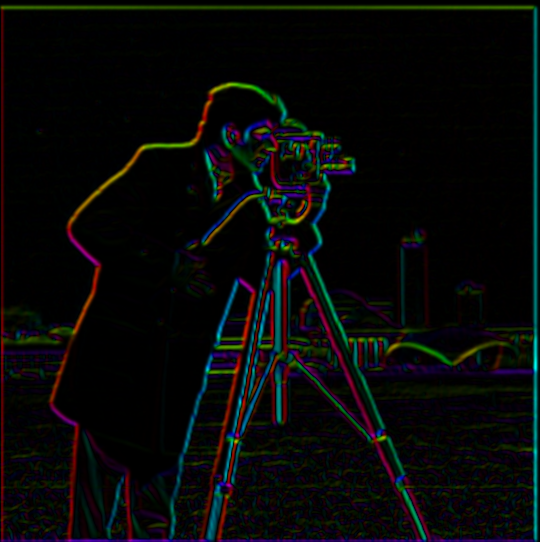
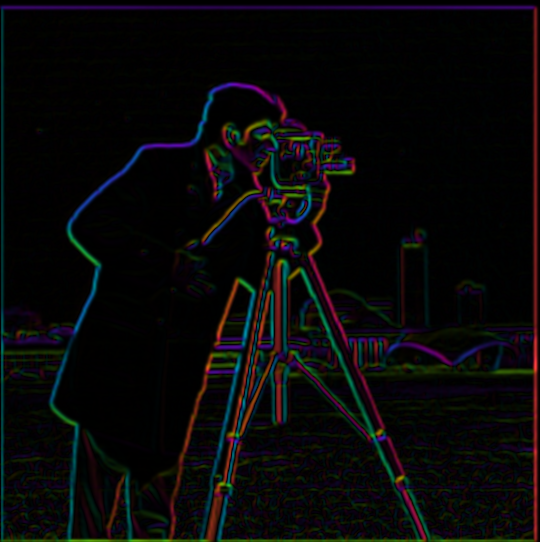
Project 2: text and final images

diff --git a/cs180/project2/index.html b/cs180/project2/index.html
@@ -13,32 +13,18 @@
 
 <h2 class="big">Part 1: Fun with Filters</h2>
 <h2>Part 1.1: Convolutions from scratch</h2>
-<p></p>
-<h3>Padding</h3>
+<p>
+  I started by looking at the normal applying of padding and kernels. I noticed that padding uses a single number to pad on both sides, and I made the assumption that you pad both sides equally. Although I did some research and see this is not always the case, as in some cases, for example, causal convolutional layers, the padding could be different, and below is my padding function.
+</p>
 <pre><code>def pad_same(image, kernel_h, kernel_w):
     image_h, image_w = image.shape
     top, left = kernel_h // 2, kernel_w // 2
     padded = np.zeros((image_h + kernel_h - 1, image_w + kernel_w - 1))
     padded[top:top + image_h, left:left + image_w] = image
     return padded</code></pre>
-<p></p>
-<h3>Four loops</h3>
-<pre><code>def conv2d_four(image, kernel):
-    image_h, image_w = image.shape
-    kernel_h, kernel_w = kernel.shape
-    padded = pad_same(image, kernel_h, kernel_w)
-    flipped = kernel[::-1, ::-1]
-    out = np.zeros((image_h, image_w))
-    for i in range(image_h):
-        for j in range(image_w):
-            val = 0.0
-            for h in range(kernel_h):
-                for w in range(kernel_w):
-                    val += padded[i + h, j + w] * flipped[h, w]
-            out[i, j] = val
-    return out</code></pre>
-<p></p>
-<h3>Two loops</h3>
+<p>
+  Then I also had a conv2d for both four loops and two loops, and here I only showed the two loops function, which is what I used later on too. It basically takes a kernel and puts it across the image.
+</p>
 <pre><code>def conv2d_two(image, kernel):
     image_h, image_w = image.shape
     kernel_h, kernel_w = kernel.shape
@@ -49,38 +35,78 @@
         for j in range(image_w):
             out[i, j] = np.sum(padded[i:i + kernel_h, j:j + kernel_w] * flipped)
     return out</code></pre>
-<p></p>
 <h3>Comparison with scipy</h3>
-<p></p>
-<h3>Box filter and finite differences</h3>
-<p></p>
 <div class="quad">
   <figure><img src="assets/p11_input.jpg" alt="input"><figcaption>input</figcaption></figure>
-  <figure><img src="assets/p11_box.jpg" alt="9x9 box filter"><figcaption>9x9 box filter</figcaption></figure>
-  <figure><img src="assets/p11_dx.jpg" alt="Dx"><figcaption>Dx</figcaption></figure>
-  <figure><img src="assets/p11_dy.jpg" alt="Dy"><figcaption>Dy</figcaption></figure>
+  <figure><img src="assets/p11_box.jpg" alt="ours: 9x9 box filter"><figcaption>ours: 9x9 box filter</figcaption></figure>
+  <figure><img src="assets/p11_dx.jpg" alt="ours: Dx"><figcaption>ours: Dx</figcaption></figure>
+  <figure><img src="assets/p11_dy.jpg" alt="ours: Dy"><figcaption>ours: Dy</figcaption></figure>
 </div>
+<div class="quad">
+  <figure><img src="assets/p11_input.jpg" alt="input"><figcaption>input</figcaption></figure>
+  <figure><img src="assets/p11_box_scipy.jpg" alt="scipy: 9x9 box filter"><figcaption>scipy: 9x9 box filter</figcaption></figure>
+  <figure><img src="assets/p11_dx_scipy.jpg" alt="scipy: Dx"><figcaption>scipy: Dx</figcaption></figure>
+  <figure><img src="assets/p11_dy_scipy.jpg" alt="scipy: Dy"><figcaption>scipy: Dy</figcaption></figure>
+</div>
+<p>
+  Both pad the boundary with zeros, and the results match <code>scipy.signal.convolve2d</code> to within 1e-15. On a 100x100 image with the 9x9 box filter, four loops took about 130 ms, two loops about 20 ms, and scipy under 1 ms, because each step moves more of the looping from Python into compiled code.
+</p>
 <h2>Part 1.2: Finite difference operator</h2>
-<p></p>
+<p>
+  The derivative in x uses the kernel D<sub>x</sub> = [1, -1] and the derivative in y uses D<sub>y</sub> = [1, -1]<sup>T</sup>. The gradient magnitude is sqrt(dx<sup>2</sup> + dy<sup>2</sup>).
+</p>
+<pre><code>Dx = np.array([[1.0, -1.0]])
+Dy = np.array([[1.0], [-1.0]])
+
+
+def finite_difference(im, threshold, filter_x=Dx, filter_y=Dy):
+    dx = convolve2d(im, filter_x, mode=&#x27;same&#x27;, boundary=&#x27;symm&#x27;)
+    dy = convolve2d(im, filter_y, mode=&#x27;same&#x27;, boundary=&#x27;symm&#x27;)
+    magnitude = np.sqrt(dx**2 + dy**2)
+    edges = magnitude &gt; threshold
+    return dx, dy, magnitude, edges</code></pre>
 <div class="pair">
   <figure><img src="assets/p12_dx.jpg" alt="partial derivative in x"><figcaption>partial derivative in x</figcaption></figure>
   <figure><img src="assets/p12_dy.jpg" alt="partial derivative in y"><figcaption>partial derivative in y</figcaption></figure>
 </div>
 <div class="pair">
   <figure><img src="assets/p12_magnitude.jpg" alt="gradient magnitude"><figcaption>gradient magnitude</figcaption></figure>
-  <figure><img src="assets/p12_edges.png" alt="binarized edges"><figcaption>binarized edges</figcaption></figure>
+  <figure><img src="assets/p12_edges.png" alt="binarized edges, threshold 0.25"><figcaption>binarized edges, threshold 0.25</figcaption></figure>
 </div>
-<p></p>
+<p>
+  I binarized the gradient magnitude at a threshold of 0.25. A lower threshold keeps more of the background buildings but lets in the grass noise, so I gave up a few faint edges for a cleaner image.
+</p>
 <h2>Part 1.3: Derivative of Gaussian (DoG) filter</h2>
-<p></p>
+<p>
+  The 2D Gaussian is the outer product of <code>cv2.getGaussianKernel</code> with itself (9x9, sigma 1.5). I blur the image with it and then repeat Part 1.2.
+</p>
+<pre><code>def gaussian_2d(ksize, sigma):
+    g = cv.getGaussianKernel(ksize, sigma)
+    return g @ g.T
+
+
+def blur_then_difference(im, gaussian, threshold):
+    blurred = convolve2d(im, gaussian, mode=&#x27;same&#x27;, boundary=&#x27;symm&#x27;)
+    return finite_difference(blurred, threshold)</code></pre>
 <div class="trio">
   <figure><img src="assets/p13_blurred.jpg" alt="blurred input"><figcaption>blurred input</figcaption></figure>
   <figure><img src="assets/p13_magnitude.jpg" alt="gradient magnitude"><figcaption>gradient magnitude</figcaption></figure>
-  <figure><img src="assets/p13_edges.png" alt="binarized edges"><figcaption>binarized edges</figcaption></figure>
+  <figure><img src="assets/p13_edges.png" alt="binarized edges, threshold 0.075"><figcaption>binarized edges, threshold 0.075</figcaption></figure>
 </div>
-<p></p>
+<p>
+  Compared to the plain finite difference, the grass noise is gone and the edges are thicker and continuous. Blurring makes the gradients smaller, so the threshold drops to 0.075.
+</p>
 <h3>DoG filters</h3>
-<p></p>
+<p>
+  Convolving the Gaussian with D<sub>x</sub> and D<sub>y</sub> gives two DoG filters, so the blur and the derivative become one convolution.
+</p>
+<pre><code>def dog_filters(gaussian):
+    return convolve2d(gaussian, Dx), convolve2d(gaussian, Dy)
+
+
+def dog_difference(im, gaussian, threshold):
+    dog_x, dog_y = dog_filters(gaussian)
+    return finite_difference(im, threshold, dog_x, dog_y)</code></pre>
 <div class="pair small">
   <figure><img src="assets/p13_dog_x.png" alt="DoG x filter"><figcaption>DoG x filter</figcaption></figure>
   <figure><img src="assets/p13_dog_y.png" alt="DoG y filter"><figcaption>DoG y filter</figcaption></figure>
@@ -89,124 +115,210 @@
   <figure><img src="assets/p13_dog_magnitude.jpg" alt="gradient magnitude, single convolution"><figcaption>gradient magnitude, single convolution</figcaption></figure>
   <figure><img src="assets/p13_dog_edges.png" alt="binarized edges, single convolution"><figcaption>binarized edges, single convolution</figcaption></figure>
 </div>
-<p></p>
+<p>
+  The result is the same as blurring first: the gradient magnitudes differ by at most 7e-16 and the edge images are identical.
+</p>
 <h3>Bells &amp; Whistles: gradient orientation</h3>
-<p></p>
-<figure class="single"><img src="assets/p13_orientation.png" alt="gradient orientation as hue, magnitude as brightness"><figcaption>gradient orientation as hue, magnitude as brightness</figcaption></figure>
+<p>
+  The gradient divided by its magnitude is already the cosine and sine of the orientation, so no angle function is needed. Each color channel is a cosine of the orientation shifted by 120 degrees, expanded with cos(a - b) = cos a cos b + sin a sin b, and the brightness is the gradient magnitude.
+</p>
+<pre><code>def orientation(dx, dy, magnitude):
+    cos, sin = dx / (magnitude + 1e-8), dy / (magnitude + 1e-8)
+    half, root = 0.5, np.sqrt(3) / 2
+    rgb = np.dstack([cos, -half * cos + root * sin, -half * cos - root * sin])
+    return (0.5 + 0.5 * rgb) * normalize(magnitude)[:, :, None]</code></pre>
+<figure class="single"><img src="assets/p13_orientation.png" alt="gradient orientation as color, magnitude as brightness"><figcaption>gradient orientation as color, magnitude as brightness</figcaption></figure>
 <h2 class="big">Part 2: Fun with Frequencies</h2>
 <h2>Part 2.1: Image sharpening</h2>
-<p></p>
-<div class="pair">
+<p>
+  A Gaussian blur keeps only the low frequencies, so the image minus its blur is the high frequencies. Adding alpha times the high frequencies back sharpens the image, and this folds into a single filter: (1 + alpha) * impulse - alpha * Gaussian.
+</p>
+<p>
+  I also find out that sharpen and blur are not reverses of each other. So sharpen is not gonna cancel blurring. It's gonna try to "use what is left" with its best ability.
+</p>
+<pre><code>def unsharp_filter(sigma, alpha):
+    ksize = kernel_size(sigma)
+    impulse = np.zeros((ksize, ksize))
+    impulse[ksize // 2, ksize // 2] = 1
+    return (1 + alpha) * impulse - alpha * gaussian_2d(ksize, sigma)
+
+
+def sharpen(im, sigma, alpha):
+    return np.clip(filter_image(im, unsharp_filter(sigma, alpha)), 0, 1)</code></pre>
+<div class="quad">
   <figure><img src="assets/p21_taj.jpg" alt="taj, original"><figcaption>taj, original</figcaption></figure>
-  <figure><img src="assets/p21_taj_sharp.jpg" alt="taj, sharpened"><figcaption>taj, sharpened</figcaption></figure>
+  <figure><img src="assets/p21_taj_blur.jpg" alt="blurred"><figcaption>blurred</figcaption></figure>
+  <figure><img src="assets/p21_taj_high.jpg" alt="high frequencies"><figcaption>high frequencies</figcaption></figure>
+  <figure><img src="assets/p21_taj_sharp.jpg" alt="sharpened"><figcaption>sharpened</figcaption></figure>
 </div>
-<div class="pair">
+<p>
+  Taj sharpens well, the edges of the building come out clearly.
+</p>
+<p>
+  I'm also interested to discover what happens if we try to sharpen an image that is already kind of blurry, for instance, this motion blur image.
+</p>
+<div class="quad">
   <figure><img src="assets/p21_walking.jpg" alt="walking, original"><figcaption>walking, original</figcaption></figure>
-  <figure><img src="assets/p21_walking_sharp.jpg" alt="walking, sharpened"><figcaption>walking, sharpened</figcaption></figure>
+  <figure><img src="assets/p21_walking_blur.jpg" alt="blurred"><figcaption>blurred</figcaption></figure>
+  <figure><img src="assets/p21_walking_high.jpg" alt="high frequencies"><figcaption>high frequencies</figcaption></figure>
+  <figure><img src="assets/p21_walking_sharp.jpg" alt="sharpened"><figcaption>sharpened</figcaption></figure>
 </div>
-<p></p>
+<p>
+  The result is sharpened, but doesn't totally sharpen. The shoes and the outline of the jacket get crisper, but the smear behind the walker is still there, because the unsharp mask only boosts the high frequencies that are left and cannot undo motion blur.
+</p>
+<h3>Varying the sharpening amount</h3>
+<div class="quad">
+  <figure><img src="assets/p21_taj_alpha_0.5.jpg" alt="alpha 0.5"><figcaption>alpha 0.5</figcaption></figure>
+  <figure><img src="assets/p21_taj_alpha_1.jpg" alt="alpha 1"><figcaption>alpha 1</figcaption></figure>
+  <figure><img src="assets/p21_taj_alpha_2.jpg" alt="alpha 2"><figcaption>alpha 2</figcaption></figure>
+  <figure><img src="assets/p21_taj_alpha_4.jpg" alt="alpha 4"><figcaption>alpha 4</figcaption></figure>
+</div>
+<p>
+  A larger alpha gives stronger edges. Past about 2, halos and noise start to show.
+</p>
 <h3>Blur, then sharpen</h3>
-<p></p>
+<p>
+  I also decided to sharpen Evanbot.
+</p>
 <div class="trio">
   <figure><img src="assets/p21_eval_original.jpg" alt="original"><figcaption>original</figcaption></figure>
   <figure><img src="assets/p21_eval_blurred.jpg" alt="blurred"><figcaption>blurred</figcaption></figure>
   <figure><img src="assets/p21_eval_resharpened.jpg" alt="re-sharpened"><figcaption>re-sharpened</figcaption></figure>
 </div>
-<p></p>
 <h2>Part 2.2: Hybrid images</h2>
-<p></p>
+<p>
+  I align the two images on two points, low-pass one with a Gaussian, high-pass the other by subtracting its Gaussian blur, and add them.
+</p>
+<pre><code>def align(im, target, pts, target_pts):
+    (x1, y1), (x2, y2) = pts
+    (u1, v1), (u2, v2) = target_pts
+    scale = np.hypot(u2 - u1, v2 - v1) / np.hypot(x2 - x1, y2 - y1)
+    angle = np.degrees(np.arctan2(y2 - y1, x2 - x1) - np.arctan2(v2 - v1, u2 - u1))
+    matrix = cv.getRotationMatrix2D((x1, y1), angle, scale)
+    matrix[:, 2] += (u1 - x1, v1 - y1)
+    h, w = target.shape[:2]
+    return cv.warpAffine(im, matrix, (w, h), borderMode=cv.BORDER_REFLECT)
+
+
+def hybrid(im_low, im_high, sigma_low, sigma_high):
+    return np.clip(low_pass(im_low, sigma_low) + high_pass(im_high, sigma_high), 0, 1)</code></pre>
 <h3>Derek and Nutmeg</h3>
 <div class="trio">
   <figure><img src="assets/p22_derek_nutmeg_low.jpg" alt="Derek (low frequency)"><figcaption>Derek (low frequency)</figcaption></figure>
   <figure><img src="assets/p22_derek_nutmeg_high.jpg" alt="Nutmeg (high frequency)"><figcaption>Nutmeg (high frequency)</figcaption></figure>
   <figure><img src="assets/p22_derek_nutmeg_hybrid.jpg" alt="hybrid"><figcaption>hybrid</figcaption></figure>
 </div>
-<p></p>
 <h3>Messi and Ronaldo</h3>
 <div class="trio">
   <figure><img src="assets/p22_messi_ronaldo_low.jpg" alt="Messi (low frequency)"><figcaption>Messi (low frequency)</figcaption></figure>
   <figure><img src="assets/p22_messi_ronaldo_high.jpg" alt="Ronaldo (high frequency)"><figcaption>Ronaldo (high frequency)</figcaption></figure>
   <figure><img src="assets/p22_messi_ronaldo_hybrid.jpg" alt="hybrid"><figcaption>hybrid</figcaption></figure>
 </div>
-<p></p>
-<h3>Lily pond: photo and painting</h3>
-<div class="trio">
-  <figure><img src="assets/p22_pond_low.jpg" alt="photo (low frequency)"><figcaption>photo (low frequency)</figcaption></figure>
-  <figure><img src="assets/p22_pond_high.jpg" alt="painting (high frequency)"><figcaption>painting (high frequency)</figcaption></figure>
-  <figure><img src="assets/p22_pond_hybrid.jpg" alt="hybrid"><figcaption>hybrid</figcaption></figure>
-</div>
-<p></p>
 <h3>Anthropic and ChatGPT logos</h3>
 <div class="trio">
   <figure><img src="assets/p22_logos_low.jpg" alt="Anthropic logo (low frequency)"><figcaption>Anthropic logo (low frequency)</figcaption></figure>
   <figure><img src="assets/p22_logos_high.jpg" alt="ChatGPT logo (high frequency)"><figcaption>ChatGPT logo (high frequency)</figcaption></figure>
   <figure><img src="assets/p22_logos_hybrid.jpg" alt="hybrid"><figcaption>hybrid</figcaption></figure>
 </div>
-<p></p>
-<h3>Frequency analysis: Messi and Ronaldo</h3>
-<p></p>
+<h3>Full process: lily pond</h3>
+<p>
+  The photo is the low-frequency image and the painting is the high-frequency one. I aligned them on the two ends of the bridge.
+</p>
 <div class="pair">
-  <figure><img src="assets/p22_low_filtered.jpg" alt="low-pass filtered"><figcaption>low-pass filtered</figcaption></figure>
-  <figure><img src="assets/p22_high_filtered.jpg" alt="high-pass filtered"><figcaption>high-pass filtered</figcaption></figure>
+  <figure><img src="assets/p22_original_low.jpg" alt="original photo"><figcaption>original photo</figcaption></figure>
+  <figure><img src="assets/p22_original_high.jpg" alt="original painting"><figcaption>original painting</figcaption></figure>
 </div>
+<div class="pair">
+  <figure><img src="assets/p22_pond_low.jpg" alt="aligned photo"><figcaption>aligned photo</figcaption></figure>
+  <figure><img src="assets/p22_pond_high.jpg" alt="aligned painting"><figcaption>aligned painting</figcaption></figure>
+</div>
+<div class="pair">
+  <figure><img src="assets/p22_low_filtered.jpg" alt="low-pass filtered, sigma 8"><figcaption>low-pass filtered, sigma 8</figcaption></figure>
+  <figure><img src="assets/p22_high_filtered.jpg" alt="high-pass filtered, sigma 5"><figcaption>high-pass filtered, sigma 5</figcaption></figure>
+</div>
+<p>
+  I used sigma 8 for the low-pass, enough to remove the fine detail of the photo, and sigma 5 for the high-pass, so the painting keeps its brush strokes but not its large shapes.
+</p>
 <div class="five">
-  <figure><img src="assets/p22_fft_low_input.jpg" alt="FFT: low input"><figcaption>FFT: low input</figcaption></figure>
-  <figure><img src="assets/p22_fft_high_input.jpg" alt="FFT: high input"><figcaption>FFT: high input</figcaption></figure>
+  <figure><img src="assets/p22_fft_low_input.jpg" alt="FFT: photo"><figcaption>FFT: photo</figcaption></figure>
+  <figure><img src="assets/p22_fft_high_input.jpg" alt="FFT: painting"><figcaption>FFT: painting</figcaption></figure>
   <figure><img src="assets/p22_fft_low_filtered.jpg" alt="FFT: low-pass"><figcaption>FFT: low-pass</figcaption></figure>
   <figure><img src="assets/p22_fft_high_filtered.jpg" alt="FFT: high-pass"><figcaption>FFT: high-pass</figcaption></figure>
   <figure><img src="assets/p22_fft_hybrid.jpg" alt="FFT: hybrid"><figcaption>FFT: hybrid</figcaption></figure>
 </div>
-<p></p>
-<h3>Bells &amp; Whistles: color</h3>
-<p></p>
-<div class="quad">
-  <figure><img src="assets/p22_messi_ronaldo_hybrid.jpg" alt="color on both"><figcaption>color on both</figcaption></figure>
-  <figure><img src="assets/p22_color_low_only.jpg" alt="color on low only"><figcaption>color on low only</figcaption></figure>
-  <figure><img src="assets/p22_color_high_only.jpg" alt="color on high only"><figcaption>color on high only</figcaption></figure>
-  <figure><img src="assets/p22_color_neither.jpg" alt="grayscale"><figcaption>grayscale</figcaption></figure>
-</div>
-<p></p>
+<p>
+  The low-pass keeps only the center of the spectrum, the high-pass removes the center, and the hybrid has both.
+</p>
+<figure class="single"><img src="assets/p22_pond_hybrid.jpg" alt="hybrid"><figcaption>hybrid</figcaption></figure>
 <h2>Part 2.3: Gaussian and Laplacian stacks</h2>
-<p></p>
+<p>
+  Each Gaussian level blurs the previous one, with sigma doubling each time and no downsampling. Each Laplacian level is the difference of two neighboring Gaussian levels, and the last one is the final Gaussian level, so the stack sums back to the image.
+</p>
+<pre><code>def gaussian_stack(im, levels, sigma=1.0):
+    stack = [im]
+    for i in range(levels - 1):
+        stack.append(blur(stack[-1], sigma * 2**i))
+    return stack
+
+
+def laplacian_stack(im, levels, sigma=1.0):
+    g = gaussian_stack(im, levels, sigma)
+    return [g[i] - g[i + 1] for i in range(levels - 1)] + [g[-1]]</code></pre>
 <h3>Apple</h3>
 <figure class="wide"><img src="assets/p23_gaussian_apple.jpg" alt="Gaussian stack"><figcaption>Gaussian stack</figcaption></figure>
 <figure class="wide"><img src="assets/p23_laplacian_apple.jpg" alt="Laplacian stack"><figcaption>Laplacian stack</figcaption></figure>
 <h3>Orange</h3>
 <figure class="wide"><img src="assets/p23_gaussian_orange.jpg" alt="Gaussian stack"><figcaption>Gaussian stack</figcaption></figure>
 <figure class="wide"><img src="assets/p23_laplacian_orange.jpg" alt="Laplacian stack"><figcaption>Laplacian stack</figcaption></figure>
-<p></p>
 <h3>Recreating Szeliski Figure 3.42</h3>
-<p></p>
+<p>
+  Rows are Laplacian levels 0, 2 and 4, then the sum of all levels. Columns are the masked apple, the masked orange, and their sum.
+</p>
 <figure class="single"><img src="assets/p23_oraple_figure.jpg" alt="levels 0, 2, 4, then the final blend"><figcaption>levels 0, 2, 4, then the final blend</figcaption></figure>
 <h2>Part 2.4: Multiresolution blending</h2>
-<p></p>
+<p>
+  I build Laplacian stacks of both images and a Gaussian stack of the mask, blend each level as mask * A + (1 - mask) * B, and sum the levels. All blends are done in color, one channel at a time.
+</p>
+<pre><code>def blend_levels(a, b, mask, levels):
+    la, lb = laplacian_stack(a, levels), laplacian_stack(b, levels)
+    gm = [m[:, :, None] for m in gaussian_stack(mask, levels)]
+    left = [gm[i] * la[i] for i in range(levels)]
+    right = [(1 - gm[i]) * lb[i] for i in range(levels)]
+    return left, right, [left[i] + right[i] for i in range(levels)]
+
+
+def blend(a, b, mask, levels=6):
+    return np.clip(sum(blend_levels(a, b, mask, levels)[2]), 0, 1)</code></pre>
 <h3>The oraple</h3>
 <div class="pair">
   <figure><img src="assets/p24_oraple_naive.jpg" alt="naive cut and paste"><figcaption>naive cut and paste</figcaption></figure>
   <figure><img src="assets/p24_oraple.jpg" alt="multiresolution blend"><figcaption>multiresolution blend</figcaption></figure>
 </div>
-<p></p>
-<h3>Irregular mask: Messi and Ronaldo</h3>
-<p></p>
+<h3>Irregular mask</h3>
 <div class="quad">
   <figure><img src="assets/p24_face_a.jpg" alt="Messi"><figcaption>Messi</figcaption></figure>
   <figure><img src="assets/p24_face_b.jpg" alt="Ronaldo"><figcaption>Ronaldo</figcaption></figure>
   <figure><img src="assets/p24_face_mask.png" alt="mask"><figcaption>mask</figcaption></figure>
   <figure><img src="assets/p24_face_blend.jpg" alt="blend"><figcaption>blend</figcaption></figure>
 </div>
-<p></p>
-<h3>Irregular mask: lily pond</h3>
-<p></p>
 <div class="quad">
   <figure><img src="assets/p24_pond_a.jpg" alt="painting"><figcaption>painting</figcaption></figure>
   <figure><img src="assets/p24_pond_b.jpg" alt="photo"><figcaption>photo</figcaption></figure>
   <figure><img src="assets/p24_pond_mask.png" alt="mask"><figcaption>mask</figcaption></figure>
   <figure><img src="assets/p24_pond_blend.jpg" alt="blend"><figcaption>blend</figcaption></figure>
 </div>
-<p></p>
+<p>
+  I think it's much harder to mix human faces, especially in this case, because they're not directly aligned. While in the lily pond, the two pictures are much more aligned, so the mask is easier to design.
+</p>
 <h3>The blending process</h3>
-<p></p>
-<figure class="single"><img src="assets/p24_face_figure.jpg" alt="levels 0, 2, 4, then the final blend"><figcaption>levels 0, 2, 4, then the final blend</figcaption></figure>
+<p>
+  Rows are Laplacian levels 0, 2 and 4, then the sum of all levels. Columns are the masked painting, the masked photo, and their sum.
+</p>
+<figure class="single"><img src="assets/p24_pond_figure.jpg" alt="levels 0, 2, 4, then the final blend"><figcaption>levels 0, 2, 4, then the final blend</figcaption></figure>
+<h2>What I learned</h2>
+<p>
+  The most important thing I learned is that an image can be split into frequency bands, and that sharpening, hybrid images and blending are all the same idea of treating those bands differently.
+</p>
 
 </main>
 </body>
